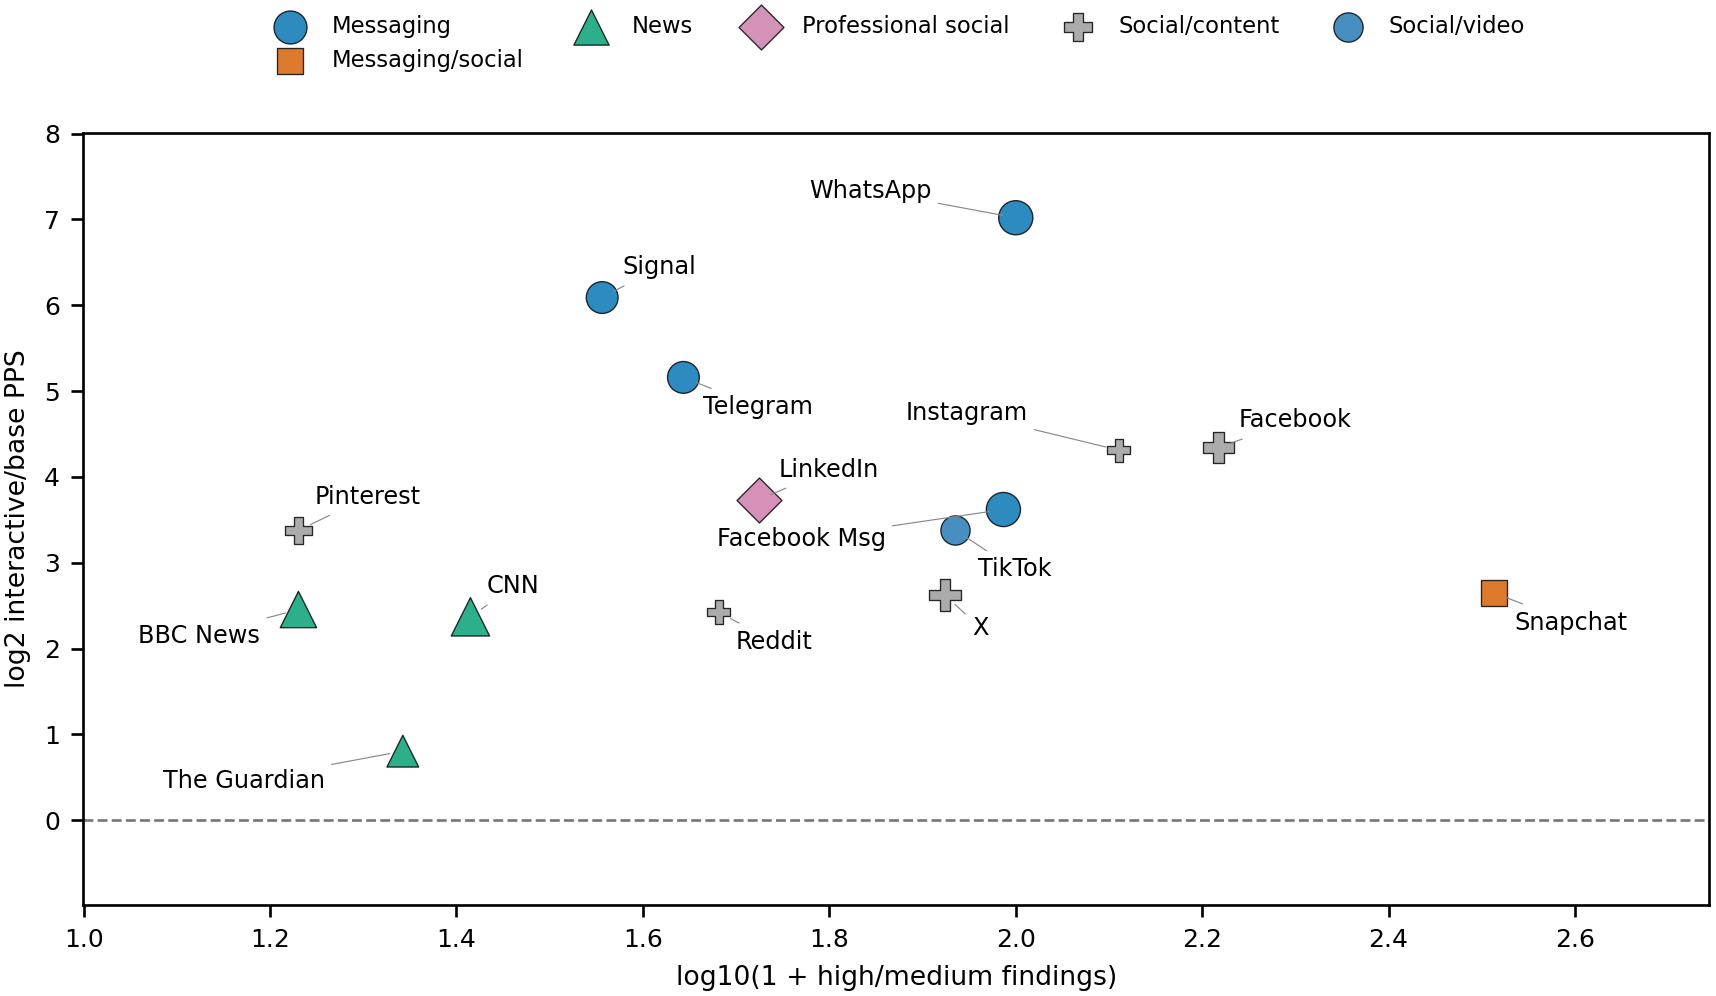
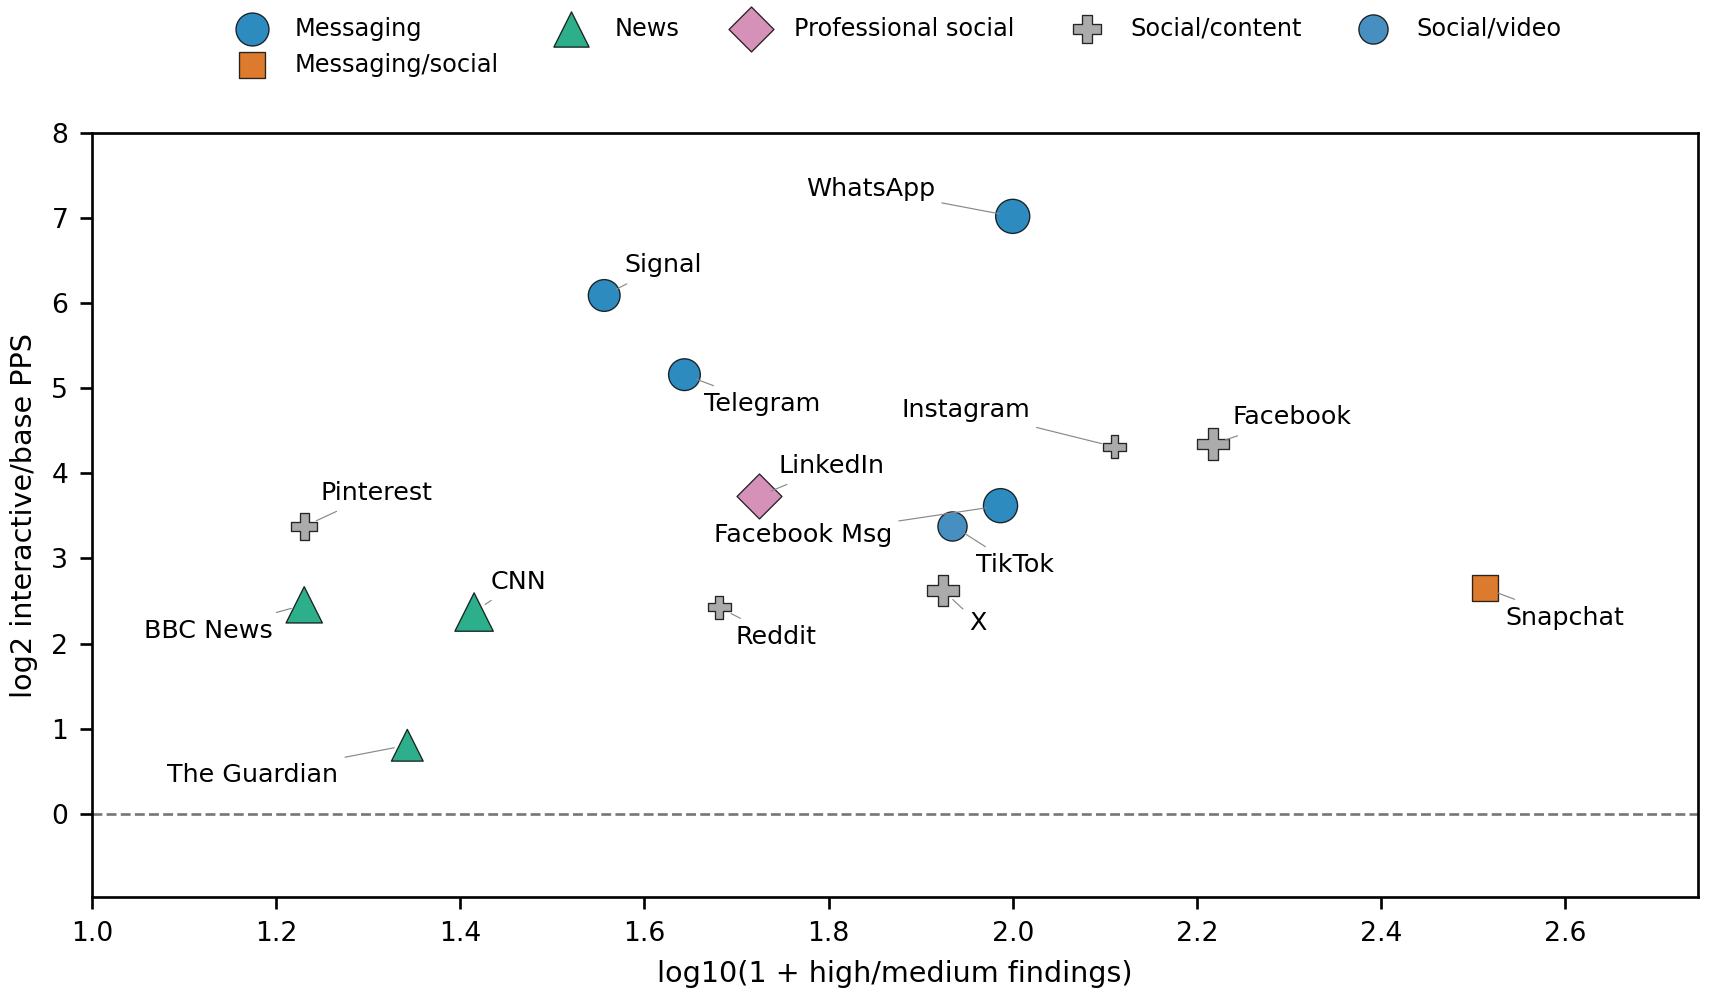
Expand integrated results and discussion

diff --git a/scripts/generate_publication_assets.py b/scripts/generate_publication_assets.py
@@ -457,7 +457,7 @@ def build_tables(manifest: pd.DataFrame, app: pd.DataFrame, static: pd.DataFrame
         note="Runtime shift uses strict idle when available, otherwise QFG. Associations are descriptive.",
     )
 
-    # A small eligibility CSV resolves the older 9-app/8-row discrepancy.
+    # Preserve the app-level basis for baseline-relative runtime comparisons.
     eligibility = []
     for pkg, g in runs.groupby("package"):
         app_name = g["app"].iloc[0]
@@ -545,16 +545,16 @@ def build_figures(static: pd.DataFrame, dynamic: pd.DataFrame) -> None:
     for col, label, color, marker, offset in series:
         vals = np.log10(1 + plot_static[col].astype(float).values)
         ax.scatter(vals, y + offset, label=label, color=color, marker=marker, s=22, edgecolor="black", linewidth=0.35)
-    ax.set_yticks(y, [display_label(v) for v in plot_static["app_label"]], fontsize=7.5)
-    ax.set_xlabel("log10(1 + count)", fontsize=8)
-    ax.tick_params(axis="x", labelsize=7.5)
+    ax.set_yticks(y, [display_label(v) for v in plot_static["app_label"]], fontsize=8.0)
+    ax.set_xlabel("log10(1 + count)", fontsize=8.6)
+    ax.tick_params(axis="x", labelsize=8.0)
     ax.grid(axis="x", color="#dddddd", linewidth=0.5)
-    ax.legend(loc="lower right", fontsize=6.8, frameon=True)
+    ax.legend(loc="lower right", fontsize=7.2, frameon=True)
     fig.tight_layout(pad=0.2)
-    fig.savefig(FIGURE_DIR / "fig2_static_exposure_heatmap.pdf")
-    fig.savefig(FIGURE_DIR / "fig2_static_exposure_heatmap.png", dpi=240)
+    fig.savefig(FIGURE_DIR / "fig2_static_exposure_dotplot.pdf")
+    fig.savefig(FIGURE_DIR / "fig2_static_exposure_dotplot.png", dpi=240)
     heat_out = plot_static[["app_label", "high_medium_findings", "exported_components_without_permission_guard", "dangerous_permissions"]].copy()
-    heat_out.to_csv(SOURCE_DIR / "fig2_static_exposure_heatmap_source.csv", index=False)
+    heat_out.to_csv(SOURCE_DIR / "fig2_static_exposure_dotplot_source.csv", index=False)
     plt.close(fig)
 
     dynamic = dynamic.rename(columns={"app": "app_label"})
@@ -573,13 +573,13 @@ def build_figures(static: pd.DataFrame, dynamic: pd.DataFrame) -> None:
         ax.barh(y, vals, left=left, label=label, color=color, hatch=hatch, edgecolor="black", linewidth=0.25)
         for yi, val, li in zip(y, vals, left):
             if val >= 2:
-                ax.text(li + val / 2, yi, str(val), ha="center", va="center", fontsize=6.8, color="white")
+                ax.text(li + val / 2, yi, str(val), ha="center", va="center", fontsize=7.1, color="white")
         left += vals
-    ax.set_yticks(y, [display_label(v) for v in dynamic["app_label"]], fontsize=7.3)
+    ax.set_yticks(y, [display_label(v) for v in dynamic["app_label"]], fontsize=7.8)
     ax.invert_yaxis()
-    ax.set_xlabel("selected runs", fontsize=8)
-    ax.tick_params(axis="x", labelsize=7.5)
-    ax.legend(loc="upper center", bbox_to_anchor=(0.5, 1.10), ncols=3, fontsize=6.5, frameon=False)
+    ax.set_xlabel("selected runs", fontsize=8.6)
+    ax.tick_params(axis="x", labelsize=8.0)
+    ax.legend(loc="upper center", bbox_to_anchor=(0.5, 1.10), ncols=3, fontsize=7.0, frameon=False)
     fig.tight_layout(pad=0.2)
     fig.savefig(FIGURE_DIR / "fig3_runtime_coverage_by_app.pdf")
     fig.savefig(FIGURE_DIR / "fig3_runtime_coverage_by_app.png", dpi=240)
@@ -638,15 +638,15 @@ def build_figures(static: pd.DataFrame, dynamic: pd.DataFrame) -> None:
             (row["x_log_high_med"], row["runtime_shift_log2_pps"]),
             xytext=offsets.get(row["app_label"], (4, 4)),
             textcoords="offset points",
-            fontsize=7.2,
+            fontsize=7.6,
             arrowprops=dict(arrowstyle="-", color="#888888", lw=0.35, shrinkA=0, shrinkB=4),
         )
     ax.axhline(0, color="#777777", lw=0.8, linestyle="--")
-    ax.set_xlabel("log10(1 + high/medium findings)", fontsize=8)
-    ax.set_ylabel("log2 interactive/base PPS", fontsize=8)
-    ax.tick_params(labelsize=7.5)
+    ax.set_xlabel("log10(1 + high/medium findings)", fontsize=8.6)
+    ax.set_ylabel("log2 interactive/base PPS", fontsize=8.6)
+    ax.tick_params(labelsize=8.0)
     ax.margins(x=0.18, y=0.14)
-    ax.legend(fontsize=6.8, loc="upper center", bbox_to_anchor=(0.5, 1.18), ncols=5, frameon=False)
+    ax.legend(fontsize=7.2, loc="upper center", bbox_to_anchor=(0.5, 1.18), ncols=5, frameon=False)
     fig.tight_layout(pad=0.2)
     fig.savefig(FIGURE_DIR / "fig4_static_runtime_scatter.pdf")
     fig.savefig(FIGURE_DIR / "fig4_static_runtime_scatter.png", dpi=240)

diff --git a/content/05_results.tex b/content/05_results.tex
@@ -4,26 +4,30 @@
 
 The final evidence bundle included all 15 applications with build-aligned static and runtime evidence; no application was classified as a true evidence hole. Table~\ref{tab:cutoff-evidence-summary} summarizes the selected app versions and the associated strict-idle, quiescent-foreground (QFG), and interactive runtime evidence. Full provenance---including static-run identifiers, dynamic-run identifiers, APK hashes, alignment status, and source-file checksums---is retained in the generated report bundle. The cutoff-window result therefore functions as a provenance control: every app-level observation reported below refers to a selected package and version group rather than to mutable live-installed state.
 
+The selected bundle is intentionally not a same-day installed-state snapshot. It is a recent, build-backed analysis set: each row identifies a selected app version, the selected runtime evidence classes, and the provenance needed to connect static and dynamic observations. This matters because consumer apps updated during collection; the analysis therefore treats app-store churn as a provenance problem rather than as automatic evidence loss.
+
 \input{tables/table2_cutoff_evidence_summary}
 
 \subsection{Static Exposure Across Selected Builds}
 
-Static exposure varied substantially across the selected builds. Figure~\ref{fig:static-exposure} compares three manuscript-level indicators: high- and medium-severity finding volume, unguarded exported components, and dangerous permissions. High- and medium-severity findings ranged from 16 for BBC News and Pinterest to 325 for Snapchat. Facebook and Instagram also exhibited comparatively large finding volumes, with 164 and 128 findings, respectively. A similar concentration appeared in unguarded exported components: Snapchat had 308, Facebook had 118, and Instagram had 91. Dangerous-permission counts were less dispersed, with several messaging and social applications clustered between 18 and 20.
+Static exposure varied substantially across the selected builds. Fig.~\ref{fig:static-exposure} compares three manuscript-level indicators: high- and medium-severity finding volume, unguarded exported components, and dangerous permissions. High- and medium-severity findings ranged from 16 for BBC News and Pinterest to 325 for Snapchat. Facebook and Instagram also exhibited comparatively large finding volumes, with 164 and 128 findings, respectively. A similar concentration appeared in unguarded exported components: Snapchat had 308, Facebook had 118, and Instagram had 91. Dangerous-permission counts were less dispersed, with several messaging and social applications clustered between 18 and 20.
 
-These values represent descriptive exposure counts rather than calibrated exploitability or compliance scores. The complete seven-metric static table, including privacy-, platform-, network-, and storage-aligned findings, is retained in the generated report bundle.
+Across all selected builds, the static export contained 1,235 high/medium findings and 955 unguarded exported components. The median app had 52 high/medium findings and 45 unguarded exported components, so the largest apps are not only marginally higher; they dominate the upper tail. Platform-aligned findings closely track the high/medium totals, while network-security findings are much smaller in count, ranging from 0 to 6 per app. These values represent descriptive exposure counts rather than calibrated exploitability or compliance scores, and the complete seven-metric static table is retained in the generated report bundle.
 
 \begin{figure}[!t]
 \centering
-\includegraphics[width=\columnwidth]{figures/fig2_static_exposure_heatmap.pdf}
+\includegraphics[width=\columnwidth]{figures/fig2_static_exposure_dotplot.pdf}
 \caption{Static exposure indicators for the selected app builds. Counts are shown on a logarithmic scale to compare high/medium findings, unguarded exported components, and dangerous permissions.}
 \label{fig:static-exposure}
 \end{figure}
 
 \subsection{Runtime Coverage and Behavioral Variation}
 
-The selected runtime evidence includes strict-idle, QFG, and interactive captures. Figure~\ref{fig:runtime-coverage} shows the distribution of these evidence classes across the cohort, while Table~\ref{tab:runtime-behavior-summary} reports compact behavior indicators without duplicating the coverage totals. QFG is retained as a separate class because a foregrounded but untouched application may continue loading content, synchronizing services, or maintaining communication state. Treating such activity as strict idle would overstate baseline quietness.
+The selected runtime evidence includes strict-idle, QFG, and interactive captures. Fig.~\ref{fig:runtime-coverage} shows the distribution of these evidence classes across the dataset, while Table~\ref{tab:runtime-behavior-summary} reports compact behavior indicators without duplicating the coverage totals. QFG is retained as a separate class because a foregrounded but untouched application may continue loading content, synchronizing services, or maintaining communication state. Treating such activity as strict idle would overstate baseline quietness.
 
 The selected runtime bundle contains 123 dynamic runs: 44 strict-idle, 23 QFG, and 56 interactive captures. CNN and BBC News provide the deepest selected coverage, with 12 and 10 runs, respectively, and every application contributes at least five selected runs. Interaction produced clearer changes in packet rate and traffic volume than in domain count. TikTok, Instagram, WhatsApp, and Facebook exhibited some of the largest interactive packet-rate or traffic-volume measurements. Signal and Telegram showed substantial packet-rate increases from comparatively quiet baselines, while retaining narrower observed domain diversity under the exercised messaging scenarios.
+
+The runtime results separate activity volume from service breadth. Interactive packet rates ranged from 14.0 packets/s for The Guardian to 285.7 packets/s for TikTok, with a median of 41.6 packets/s. Interactive median transfer volume ranged from about 10.1 MB for Facebook Msg to 211.3 MB for Instagram. Domain breadth was less dispersed: the median interactive domain count was 12, and most content apps clustered between 10 and 16 domains. Messaging apps therefore require a different interpretation: WhatsApp, Signal, and Telegram show large baseline-relative packet-rate shifts, but only three or fewer interactive domains in the selected captures.
 
 \begin{figure}[!t]
 \centering
@@ -38,16 +42,16 @@ The selected runtime bundle contains 123 dynamic runs: 44 strict-idle, 23 QFG, a
 
 The integrated analysis uses a transparent median split rather than an opaque composite score. Table~\ref{tab:integrated-profile-matrix} groups applications according to higher or lower static exposure and higher or lower runtime activity, using high/medium static finding volume and interactive domain count as the respective indicators. The resulting profiles reveal meaningful cross-layer differences. Some applications exhibit substantial packaged exposure but comparatively limited runtime diversity under the selected scenarios, whereas others show broader runtime activity despite lower static finding volume.
 
-These groupings are descriptive and should not be interpreted as formal risk rankings. Static exposure and runtime activity measure different properties: the former represents declared and packaged attack surface, while the latter represents behavior observed during specific execution scenarios.
+These groupings are descriptive and should not be interpreted as formal risk rankings. Static exposure and runtime activity measure different properties: the former represents declared and packaged attack surface, while the latter represents behavior observed during specific execution scenarios. The four cells of the matrix are populated by 3--4 apps each, which is useful for interpretation because no single quadrant explains the dataset. Four apps fall into the high-static/high-runtime group, four into high-static/lower-runtime, four into lower-static/high-runtime, and three into lower-static/lower-runtime.
 
 \input{tables/table5_integrated_profile_matrix}
 
-\begin{figure}[!t]
+\begin{figure*}[!t]
 \centering
-\includegraphics[width=\columnwidth]{figures/fig4_static_runtime_scatter.pdf}
-\caption{Descriptive relationship between static exposure and baseline-relative runtime change. The x-axis shows $\log_{10}(1+x)$ high/medium static finding volume, and the y-axis shows the $\log_{2}$ interactive-to-baseline packet-rate ratio. Marker size represents the number of interactive runs; representative applications are labeled.}
+\includegraphics[width=0.82\textwidth]{figures/fig4_static_runtime_scatter.pdf}
+\caption{Descriptive static-runtime relationship with all selected apps labeled. The x-axis is $\log_{10}(1+x)$ high/medium static finding volume; the y-axis is $\log_2$ baseline-relative interactive packet-rate shift. Marker size reflects interactive run count.}
 \label{fig:static-runtime-scatter}
-\end{figure}
+\end{figure*}
 
 \subsection{App-Level Divergence and Representative Cases}
 
@@ -55,8 +59,10 @@ Several applications illustrate why static and runtime evidence should be interp
 
 Messaging applications provide a different pattern. Signal and Telegram exhibit comparatively narrow observed domain diversity, yet both show pronounced packet-rate changes relative to quiet baselines. WhatsApp similarly demonstrates a large baseline-relative packet-rate increase despite a smaller interactive domain count than content-feed applications. TikTok and Instagram combine elevated static exposure with substantial runtime activity under the selected scenarios.
 
-Figure~\ref{fig:static-runtime-scatter} illustrates these differences. The absence of a simple one-to-one relationship is not contradictory; rather, it demonstrates that static exposure and runtime behavior characterize different dimensions of the same selected app builds. Applications may therefore appear static-heavy, runtime-heavy, elevated across both layers, or comparatively limited in both measured dimensions.
+Fig.~\ref{fig:static-runtime-scatter} illustrates these differences. The absence of a simple one-to-one relationship is not contradictory; rather, it demonstrates that static exposure and runtime behavior characterize different dimensions of the same selected app builds. Applications may therefore appear static-heavy, runtime-heavy, elevated across both layers, or comparatively limited in both measured dimensions.
 
-Baseline-relative eligibility was evaluated explicitly for every application. Earlier intermediate outputs contained a discrepancy between an aggregate nine-app comparison and an eight-row detailed table. The current generator resolves this issue by exporting an eligibility and exclusion record for every app. The statistical summaries reported here include only applications satisfying the predefined baseline-relative comparison requirements.
+The near-zero descriptive association between high/medium static findings and interactive domain count in Table~\ref{tab:statistical-summary} should be read in that context. A static detector count captures declared components, permissions, packaged configuration, and detector posture; an interactive domain count captures observed network breadth during selected scenarios. The weak app-level association is therefore not a negative result. It shows that a static-only table would miss runtime-heavy apps, while a runtime-only table would miss packaged exposure in static-heavy apps.
+
+Baseline-relative runtime comparisons were audited at the app level before reporting. The generated eligibility export records baseline/QFG and interactive availability for every selected app; in this bundle, all 15 apps have both baseline-side and interactive-side evidence. This prevents aggregate shift summaries from being interpreted beyond the app-level eligibility recorded in the source data.
 
 \input{tables/table6_statistical_summary}

diff --git a/content/06_discussion.tex b/content/06_discussion.tex
@@ -4,14 +4,22 @@
 
 The 14-day evidence window separates research readiness from the continuously changing operational queue. When a selected app build is captured within the window and linked to valid static and runtime evidence, a subsequent app-store update does not invalidate those observations. Instead, the newer build becomes a candidate for a future comparison wave. This approach prevents recent, version-backed measurements from being discarded solely because the installed application changed after collection, while preserving the package, version, APK, static-run, dynamic-run, and quality-assurance provenance needed to interpret each result.
 
+This decision is especially important for popular consumer apps because update cadence can be faster than a complete static/runtime measurement cycle. Without a bounded recent-evidence rule, the study would either chase moving targets indefinitely or discard valid runs whenever an app updated after capture. The window therefore functions as an audit boundary: it preserves recency while keeping each claim tied to a concrete package version, APK hash, static run, dynamic run, and PCAP-derived feature set.
+
 \subsection{Interpreting Static and Runtime Evidence}
 
 Static and runtime evidence describe related but different aspects of Android app posture. Static analysis characterizes declared capabilities, packaged attack surface, exported components, permissions, configuration choices, and detector findings. Runtime analysis characterizes the network activity observed during selected idle, quiescent foreground, and interactive execution scenarios. A high static finding count does not necessarily imply broad runtime activity, while limited observed runtime activity does not demonstrate low privacy or security exposure. The integrated results should therefore be interpreted as cross-layer characterization rather than evidence of causation, prediction, exploitability, or malicious behavior.
+
+This distinction is central to the results because the integrated matrix contains examples in every quadrant. Static-heavy apps warrant review of exported components, permission guards, SDKs, and packaged configuration even if the observed scenario is quiet. Runtime-heavy apps warrant scenario and service-family review even when static finding volume is lower. Concordant higher apps are the strongest candidates for deeper manual analysis because both layers point to elevated exposure.
 
 \subsection{App-Level Profiles and Review Prioritization}
 
 The app-level profiles illustrate why both evidence layers are needed. Static-heavy apps such as Snapchat and WhatsApp expose substantial packaged surfaces even when the selected runtime scenarios do not produce the broadest domain diversity. Lower-static but higher-runtime cases such as CNN and BBC News demonstrate that interactive network activity can broaden even when static finding volume is lower than that of large social platforms. Apps such as Facebook, Instagram, TikTok, and X exhibit higher values across both layers and may therefore warrant deeper manual examination. These profiles are intended to support review prioritization, not to function as composite risk scores or formal security rankings.
 
+This framing is useful for security teams because it turns disagreement between static and runtime evidence into a triage signal rather than a reporting problem. A mismatch can suggest where the next review should go: static-heavy cases toward manifest and component review, runtime-heavy cases toward scenario design and network/service labeling, and concordant higher cases toward deeper manual assessment. The goal is not to collapse the layers into one score, but to preserve enough structure for defensible follow-up.
+
 \subsection{QFG Separation and Practical Implications}
 
 Separating quiescent foreground (QFG) captures from strict idle captures is an important methodological distinction. Social, news, and messaging apps may continue loading content, synchronizing services, or maintaining communication state while foregrounded but untouched. Counting this activity as strict idle would overstate baseline quietness, whereas discarding it would remove meaningful app-driven behavior. Reporting QFG as a separate evidence class preserves both interpretations. More broadly, the findings indicate that Android app assessment should not be reduced to either static inspection or runtime traffic observation alone. Build-aligned static and runtime evidence allows practitioners to compare declared exposure with observed behavior without combining measurements from different application versions.
+
+The QFG class also improves comparability across app types. A content-feed app may refresh recommendations or media while untouched, whereas an encrypted messaging app may remain relatively quiet until a message, call, or synchronization event occurs. Treating both as ordinary idle would collapse different behaviors into one baseline. Keeping QFG separate allows the paper to describe app-driven foreground behavior without claiming that it represents user inactivity in the strictest sense.